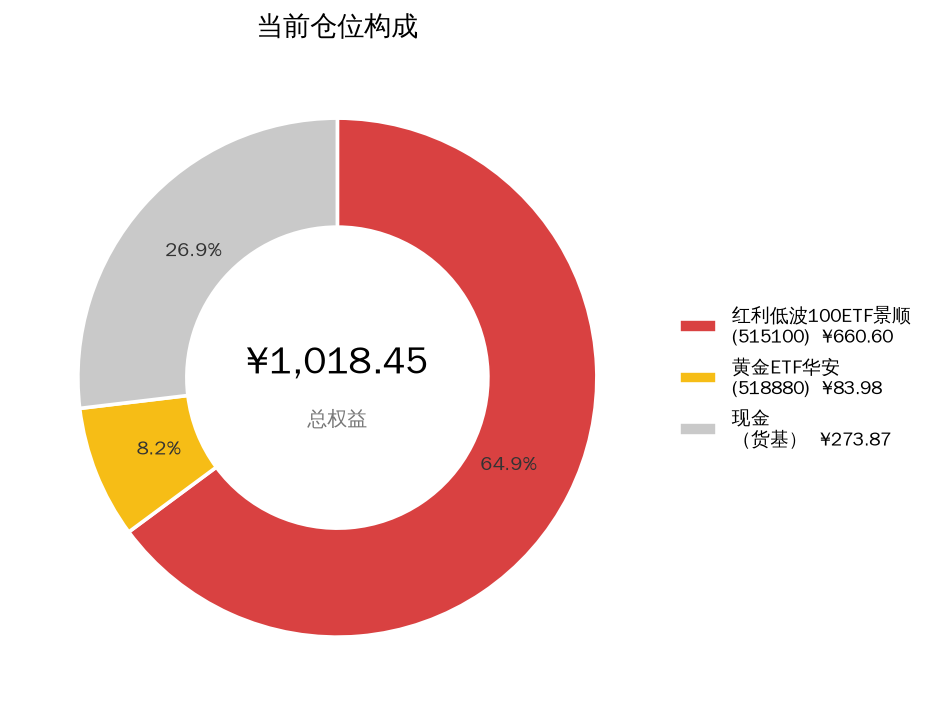
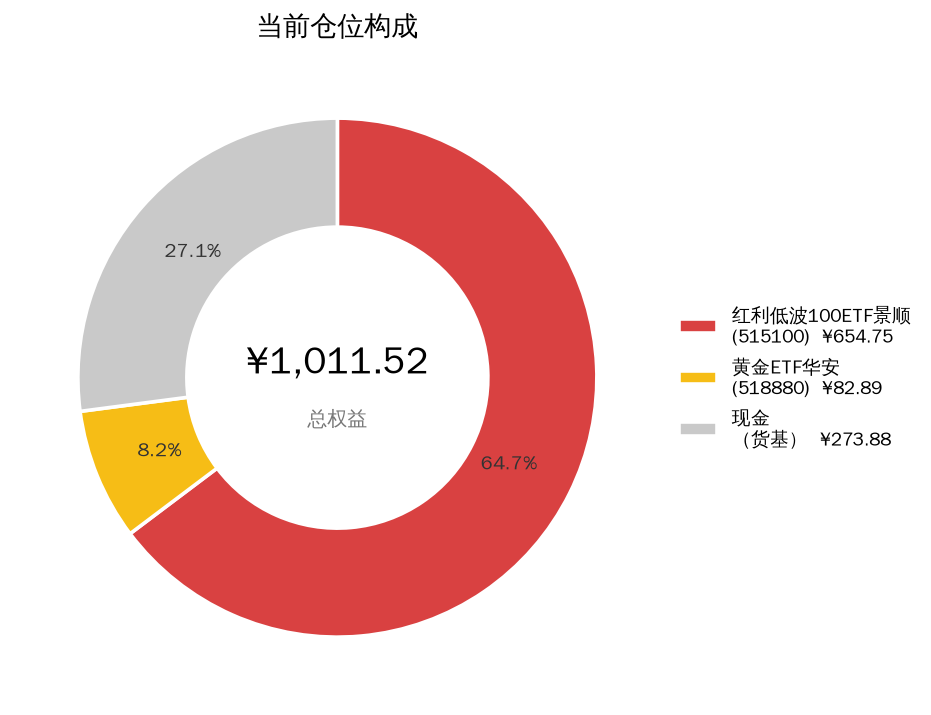
sim: dashboard update 2026-11-11 (equity ¥1011.52, +1.152%)

diff --git a/sim/DASHBOARD.md b/sim/DASHBOARD.md
@@ -1,8 +1,8 @@
 # 📊 模拟盘动态看板
 
-> **自动生成** · 最后更新 **2026-11-10 16:30** · 数据源：腾讯财经公开接口（实时行情）
+> **自动生成** · 最后更新 **2026-11-11 16:30** · 数据源：腾讯财经公开接口（实时行情）
 >
-> 本金 **¥1000.00** · 开仓 **2026-10-28** · 当前总权益 **¥1018.45** · 累计 **+1.845%**
+> 本金 **¥1000.00** · 开仓 **2026-10-28** · 当前总权益 **¥1011.52** · 累计 **+1.152%**
 >
 > ⚠ **纯模拟盘学习实验，不构成投资建议。**
 >
@@ -12,9 +12,9 @@
 
 ## 🎯 30 秒版本
 
-1. 从 2026-10-28 开仓到今天，账户从 ¥1000 变成 **¥1018.45**，赚了 **¥18.45（+1.845%）**。
-2. 今天单日 **-0.20%**，下跌 **¥2.02**。
-3. 同期大盘：**上证指数 -0.48%** 最强，**创业板指 -5.33%** 最弱 —— 本组合跑赢同期最强基准 +2.33 个百分点。
+1. 从 2026-10-28 开仓到今天，账户从 ¥1000 变成 **¥1011.52**，赚了 **¥11.52（+1.152%）**。
+2. 今天单日 **-0.68%**，下跌 **¥6.93**。
+3. 同期大盘：**上证指数 -0.02%** 最强，**创业板指 -2.38%** 最弱 —— 本组合跑赢同期最强基准 +1.17 个百分点。
 
 ## 📈 盈亏曲线
 
@@ -34,7 +34,7 @@
 
 ![盘中曲线](assets/intraday.png)
 
-**怎么读**：2026-11-10 当天每 30 分钟记录一次的账户总值。灰色虚线是当天开盘起点，曲线在虚线上方就是当天浮盈。A 股中午 11:30–13:00 休市，所以那段是平的。
+**怎么读**：2026-11-11 当天每 30 分钟记录一次的账户总值。灰色虚线是当天开盘起点，曲线在虚线上方就是当天浮盈。A 股中午 11:30–13:00 休市，所以那段是平的。
 
 ### 💵 每日盈亏明细图
 
@@ -50,21 +50,21 @@
 
 | 指标 | 数值 | 人话解读 |
 |---|---|---|
-| 总权益 | **¥1018.45** | 现在全部卖掉能拿回多少钱（持仓市值 + 现金） |
-| 持仓市值 | ¥744.58（73.1%） | 买成 ETF 的部分 |
-| 现金 | ¥273.87（26.9%） | 留着没买的钱，按货基利率计息 |
-| 累计盈亏 | **¥+18.45（+1.845%）** | 相对 ¥1000 本金 |
-| 今日盈亏 | **-0.20%** | 今天一天的变化 |
+| 总权益 | **¥1011.52** | 现在全部卖掉能拿回多少钱（持仓市值 + 现金） |
+| 持仓市值 | ¥737.64（72.9%） | 买成 ETF 的部分 |
+| 现金 | ¥273.88（27.1%） | 留着没买的钱，按货基利率计息 |
+| 累计盈亏 | **¥+11.52（+1.152%）** | 相对 ¥1000 本金 |
+| 今日盈亏 | **-0.68%** | 今天一天的变化 |
 | 历史最高 | ¥1020.47 | 账户到过的最高点 |
-| 当前回撤 | -0.198% | 离最高点还差多少（负数=没回到最高点） |
+| 当前回撤 | -0.877% | 离最高点还差多少（负数=没回到最高点） |
 
 ### 持仓明细
 
 | 标的 | 代码 | 持股 | 成本价 | 现价 | 今日 | 市值 | 浮动盈亏 | 人话解读 |
 |---|---|---|---|---|---|---|---|---|
-| 红利低波100ETF景顺 | 515100 | 450 | ¥1.431 | ¥1.468 | 🔻-0.34% | ¥660.60 | **+16.65（+2.59%）** | 赚钱了 |
-| 黄金ETF华安 | 518880 | 10 | ¥8.226 | ¥8.398 | 🔺+0.27% | ¥83.98 | **+1.72（+2.09%）** | 赚钱了 |
-| 现金 | — | — | — | — | — | ¥273.87 | — | 货基计息，年化 0.84% |
+| 红利低波100ETF景顺 | 515100 | 450 | ¥1.431 | ¥1.455 | 🔻-0.89% | ¥654.75 | **+10.80（+1.68%）** | 赚钱了 |
+| 黄金ETF华安 | 518880 | 10 | ¥8.226 | ¥8.289 | 🔻-1.30% | ¥82.89 | **+0.63（+0.77%）** | 赚钱了 |
+| 现金 | — | — | — | — | — | ¥273.88 | — | 货基计息，年化 0.84% |
 
 ---
 
@@ -110,33 +110,41 @@
 
 | 资产 | 目标占比 | 实际占比 | 偏离 | 判定 |
 |---|---|---|---|---|
-| 红利低波100ETF景顺 | 65% | 64.9% | -0.1pp | 🟢 正常，不动 |
+| 红利低波100ETF景顺 | 65% | 64.7% | -0.3pp | 🟢 正常，不动 |
 | 黄金ETF华安 | 8% | 8.2% | +0.2pp | 🟢 正常，不动 |
-| 现金（货基） | 27% | 26.9% | -0.1pp | 🟢 正常，不动 |
+| 现金（货基） | 27% | 27.1% | +0.1pp | 🟢 正常，不动 |
 
 #### ② 补仓条件检查（规则：跌到成本价 -8% 触发补仓，每只最多 2 次）
 
 | 标的 | 成本价 | 现价 | 距成本 | 已补仓 | 判定 |
 |---|---|---|---|---|---|
-| 红利低波100ETF景顺 | ¥1.431 | ¥1.468 | +2.59% | 0/2 | 🟢 未触发（还差 10.6pp 才到 -8%） |
-| 黄金ETF华安 | ¥8.226 | ¥8.398 | +2.09% | 0/2 | 🟢 未触发（还差 10.1pp 才到 -8%） |
+| 红利低波100ETF景顺 | ¥1.431 | ¥1.455 | +1.68% | 0/2 | 🟢 未触发（还差 9.7pp 才到 -8%） |
+| 黄金ETF华安 | ¥8.226 | ¥8.289 | +0.77% | 0/2 | 🟢 未触发（还差 8.8pp 才到 -8%） |
 
 #### ③ 回撤检查（规则：账户从最高点回撤 -5% 只记录、不割肉）
 
 | 指标 | 数值 |
 |---|---|
 | 历史最高净值 | ¥1020.47（2026-11-09） |
-| 当前净值 | ¥1018.45（2026-11-10） |
-| 回撤幅度 | **-0.198%** |
+| 当前净值 | ¥1011.52（2026-11-11） |
+| 回撤幅度 | **-0.877%** |
 | 触发阈值 | -5% |
 
-> 🟢 **未触发**：距阈值还有 4.80pp 缓冲。即使触发，纪律也是记录而非卖出。
+> 🟢 **未触发**：距阈值还有 4.12pp 缓冲。即使触发，纪律也是记录而非卖出。
 
 #### ④ 今日结论
 
 > ⏸ **账户已冻结，不执行任何交易。** 以上检查仅作记录用途——共扫描 6 项纪律，触发 **0** 项。冻结状态下即使触发也不动手（用户决定不投 A 股）。
 
 ### 四、每日决策记录（当时怎么判断的）
+
+#### 📅 2026-11-11 · 权益 ¥1011.52（累计 +1.152%）
+
+- 总权益 **¥1011.52**（当日 -0.68% / 累计 +1.152%）
+- 红利低波100ETF景顺 1.455 (-0.89%)
+- 黄金ETF华安 8.289 (-1.30%)
+- 现金 ¥273.88
+- 📝 自动收盘估值（看板 cron）
 
 #### 📅 2026-11-10 · 权益 ¥1018.45（累计 +1.845%）
 
@@ -225,9 +233,9 @@
 
 | 指数 | 同期涨跌 | 本组合超额 | 人话解读 |
 |---|---|---|---|
-| 沪深300 | -0.61% | **+2.45pp** | 跑赢 2.45 个百分点 |
-| 创业板指 | -5.33% | **+7.17pp** | 跑赢 7.17 个百分点 |
-| 上证指数 | -0.48% | **+2.33pp** | 跑赢 2.33 个百分点 |
+| 沪深300 | -0.20% | **+1.35pp** | 跑赢 1.35 个百分点 |
+| 创业板指 | -2.38% | **+3.53pp** | 跑赢 3.53 个百分点 |
+| 上证指数 | -0.02% | **+1.17pp** | 跑赢 1.17 个百分点 |
 
 > 注：`pp` = percentage point（百分点），是两个百分比相减的单位。「+2.5pp」意思是「比它高 2.5 个百分点」，不是「高 2.5%」。
 
@@ -245,6 +253,7 @@
 | 2026-11-06 | ¥1019.23 | ¥745.38 | ¥273.85 | +1.923% |
 | 2026-11-09 | ¥1020.47 | ¥746.60 | ¥273.87 | +2.047% |
 | 2026-11-10 | ¥1018.45 | ¥744.58 | ¥273.87 | +1.845% |
+| 2026-11-11 | ¥1011.52 | ¥737.64 | ¥273.88 | +1.152% |
 
 ---
 
@@ -257,4 +266,4 @@
 
 ---
 
-_本页由 `dashboard.py` 自动生成于 2026-11-10 16:30:49，每个交易日收盘后刷新。_
+_本页由 `dashboard.py` 自动生成于 2026-11-11 16:30:16，每个交易日收盘后刷新。_
